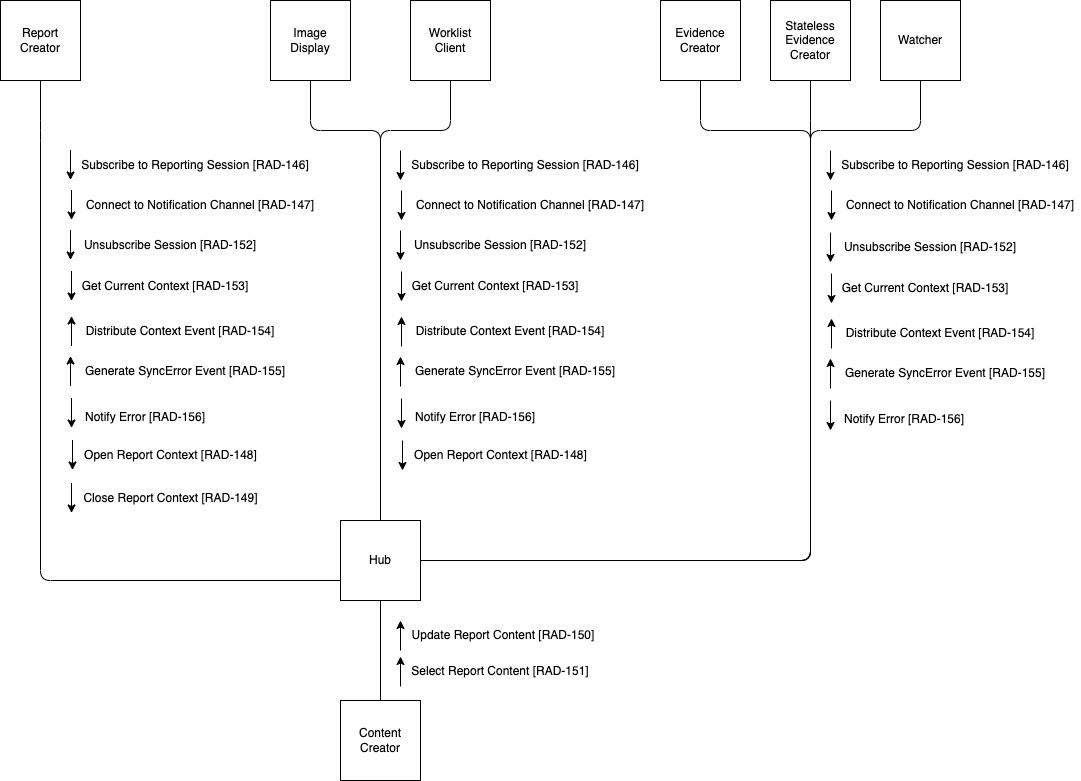
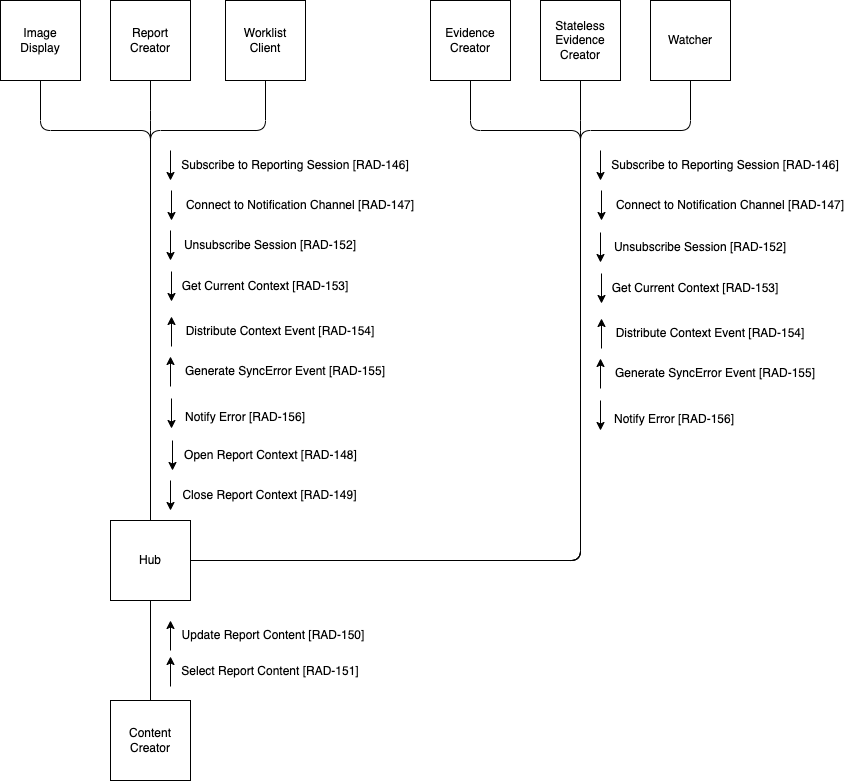
Added back Close Report Context transaction to Image Display and Worklist Client

diff --git a/input/pagecontent/volume-1.md b/input/pagecontent/volume-1.md
@@ -38,7 +38,7 @@ Table 1:53.1-1 lists the transactions for each actor directly involved in the IM
   </thead>
   <tbody>
     <tr>
-      <td rowspan="8"><a href="volume-1.html#153111-image-display">Image Display</a></td>
+      <td rowspan="9"><a href="volume-1.html#153111-image-display">Image Display</a></td>
       <td>Subscribe to Reporting Session [RAD-146]</td>
       <td>Initiator</td>
       <td>R</td>
@@ -55,6 +55,12 @@ Table 1:53.1-1 lists the transactions for each actor directly involved in the IM
       <td>Initiator</td>
       <td>R</td>
       <td><a href="rad-148.html">RAD TF-2: 4.148</a></td>
+    </tr>
+    <tr>
+      <td>Close Report Context [RAD-149]</td>
+      <td>Initiator</td>
+      <td>O</td>
+      <td><a href="rad-149.html">RAD TF-2: 4.149</a></td>
     </tr>
     <tr>
       <td>Unsubscribe Session [RAD-152]</td>
@@ -142,7 +148,7 @@ Table 1:53.1-1 lists the transactions for each actor directly involved in the IM
       <td><a href="rad-156.html">RAD TF-2: 4.156</a></td>
     </tr>
     <tr>
-      <td rowspan="8"><a href="volume-1.html#153113-worklist-client">Worklist Client</a></td>
+      <td rowspan="9"><a href="volume-1.html#153113-worklist-client">Worklist Client</a></td>
       <td>Subscribe to Reporting Session [RAD-146]</td>
       <td>Initiator</td>
       <td>R</td>
@@ -159,6 +165,12 @@ Table 1:53.1-1 lists the transactions for each actor directly involved in the IM
       <td>Initiator</td>
       <td>R</td>
       <td><a href="rad-148.html">RAD TF-2: 4.148</a></td>
+    </tr>
+    <tr>
+      <td>Close Report Context [RAD-149]</td>
+      <td>Initiator</td>
+      <td>O</td>
+      <td><a href="rad-149.html">RAD TF-2: 4.149</a></td>
     </tr>
     <tr>
       <td>Unsubscribe Session [RAD-152]</td>
